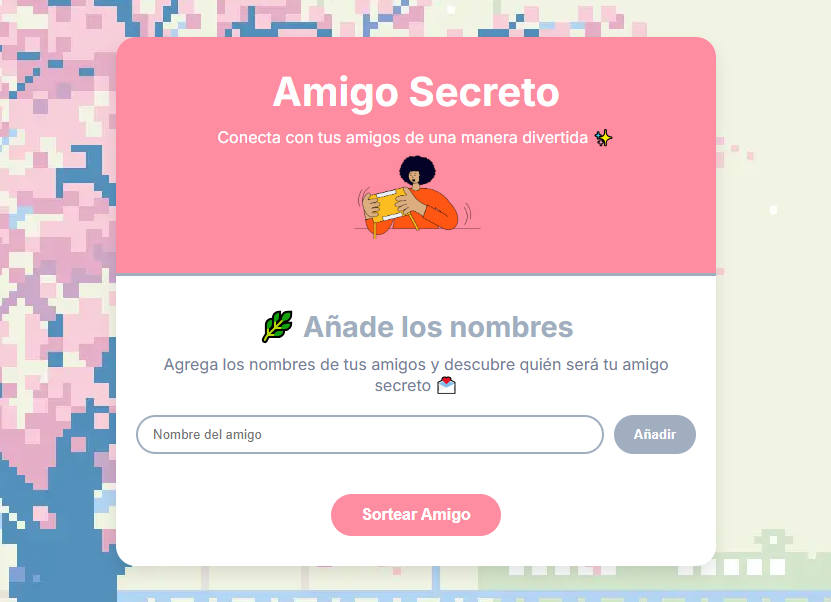
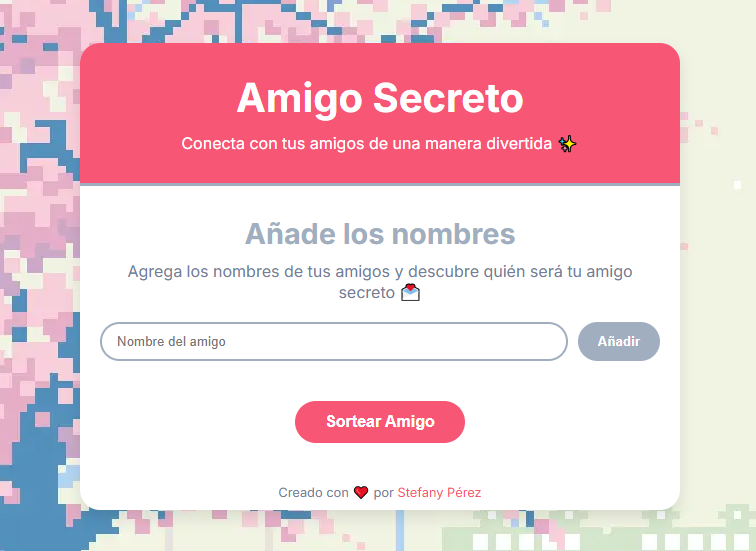
Versión final

diff --git a/index.html b/index.html
@@ -17,12 +17,10 @@
                 <h1 class="main-title">Amigo Secreto</h1>
                 <p class="subtitle">Conecta con tus amigos de una manera
                     divertida ✨</p>
-                <img src="assets/amigo-secreto.png"
-                    alt="Imagen representativa de amigo secreto">
             </header>
 
             <section class="input-section">
-                <h2 class="section-title">🌿 Añade los nombres</h2>
+                <h2 class="section-title">Añade los nombres</h2>
                 <p class="description">Agrega los nombres de tus amigos y
                     descubre quién será tu amigo secreto 💌</p>
                 <div class="input-wrapper">
@@ -45,7 +43,14 @@
                         Sortear Amigo</button>
                 </div>
             </section>
+
+            <footer>
+                <p class="footer-text">Creado con ❤ por
+                    <a href="https://github.com/StefanyPerezBz"
+                        target="_blank" rel="noopener noreferrer">Stefany Pérez</a></p>
+            </footer>
         </main>
+
         <script src="app.js" defer></script>
     </body>
 </html>

diff --git a/style.css b/style.css
@@ -1,10 +1,10 @@
 :root { 
-  --color-bg: #F7F4F9; /* Lavanda suave */
-  --color-primary: #A0AEC0; /* Azul grisáceo */
-  --color-secondary: #FF8DA1; /* Rosa vibrante */
-  --color-text: #2D3748; /* Gris oscuro */
-  --color-subtext: #718096; /* Gris claro */
-  --color-accent: #FDE68A; /* Amarillo pastel */
+  --color-bg: #F7F4F9; 
+  --color-primary: #A0AEC0; 
+  --color-secondary: #f75674; 
+  --color-text: #2D3748; 
+  --color-subtext: #718096; 
+  --color-accent: #c0223f;
   --color-white: #FFFFFF;
   --shadow-light: rgba(0, 0, 0, 0.1);
 }
@@ -82,7 +82,6 @@ body {
   font-weight: 400;
 }
 
-/* Sección de entrada */
 .input-section {
   padding: 30px 20px;
 }
@@ -186,6 +185,19 @@ body {
 .button-draw:hover {
   background-color: var(--color-accent);
   transform: translateY(-3px);
+}
+
+footer {
+  margin-top: 10px;
+  margin-bottom: 10px;
+  font-size: 0.8rem;
+  color: var(--color-subtext);
+  text-align: center;
+}
+
+footer a {
+  color: var(--color-secondary);
+  text-decoration: none;
 }
 
 @keyframes spin {
